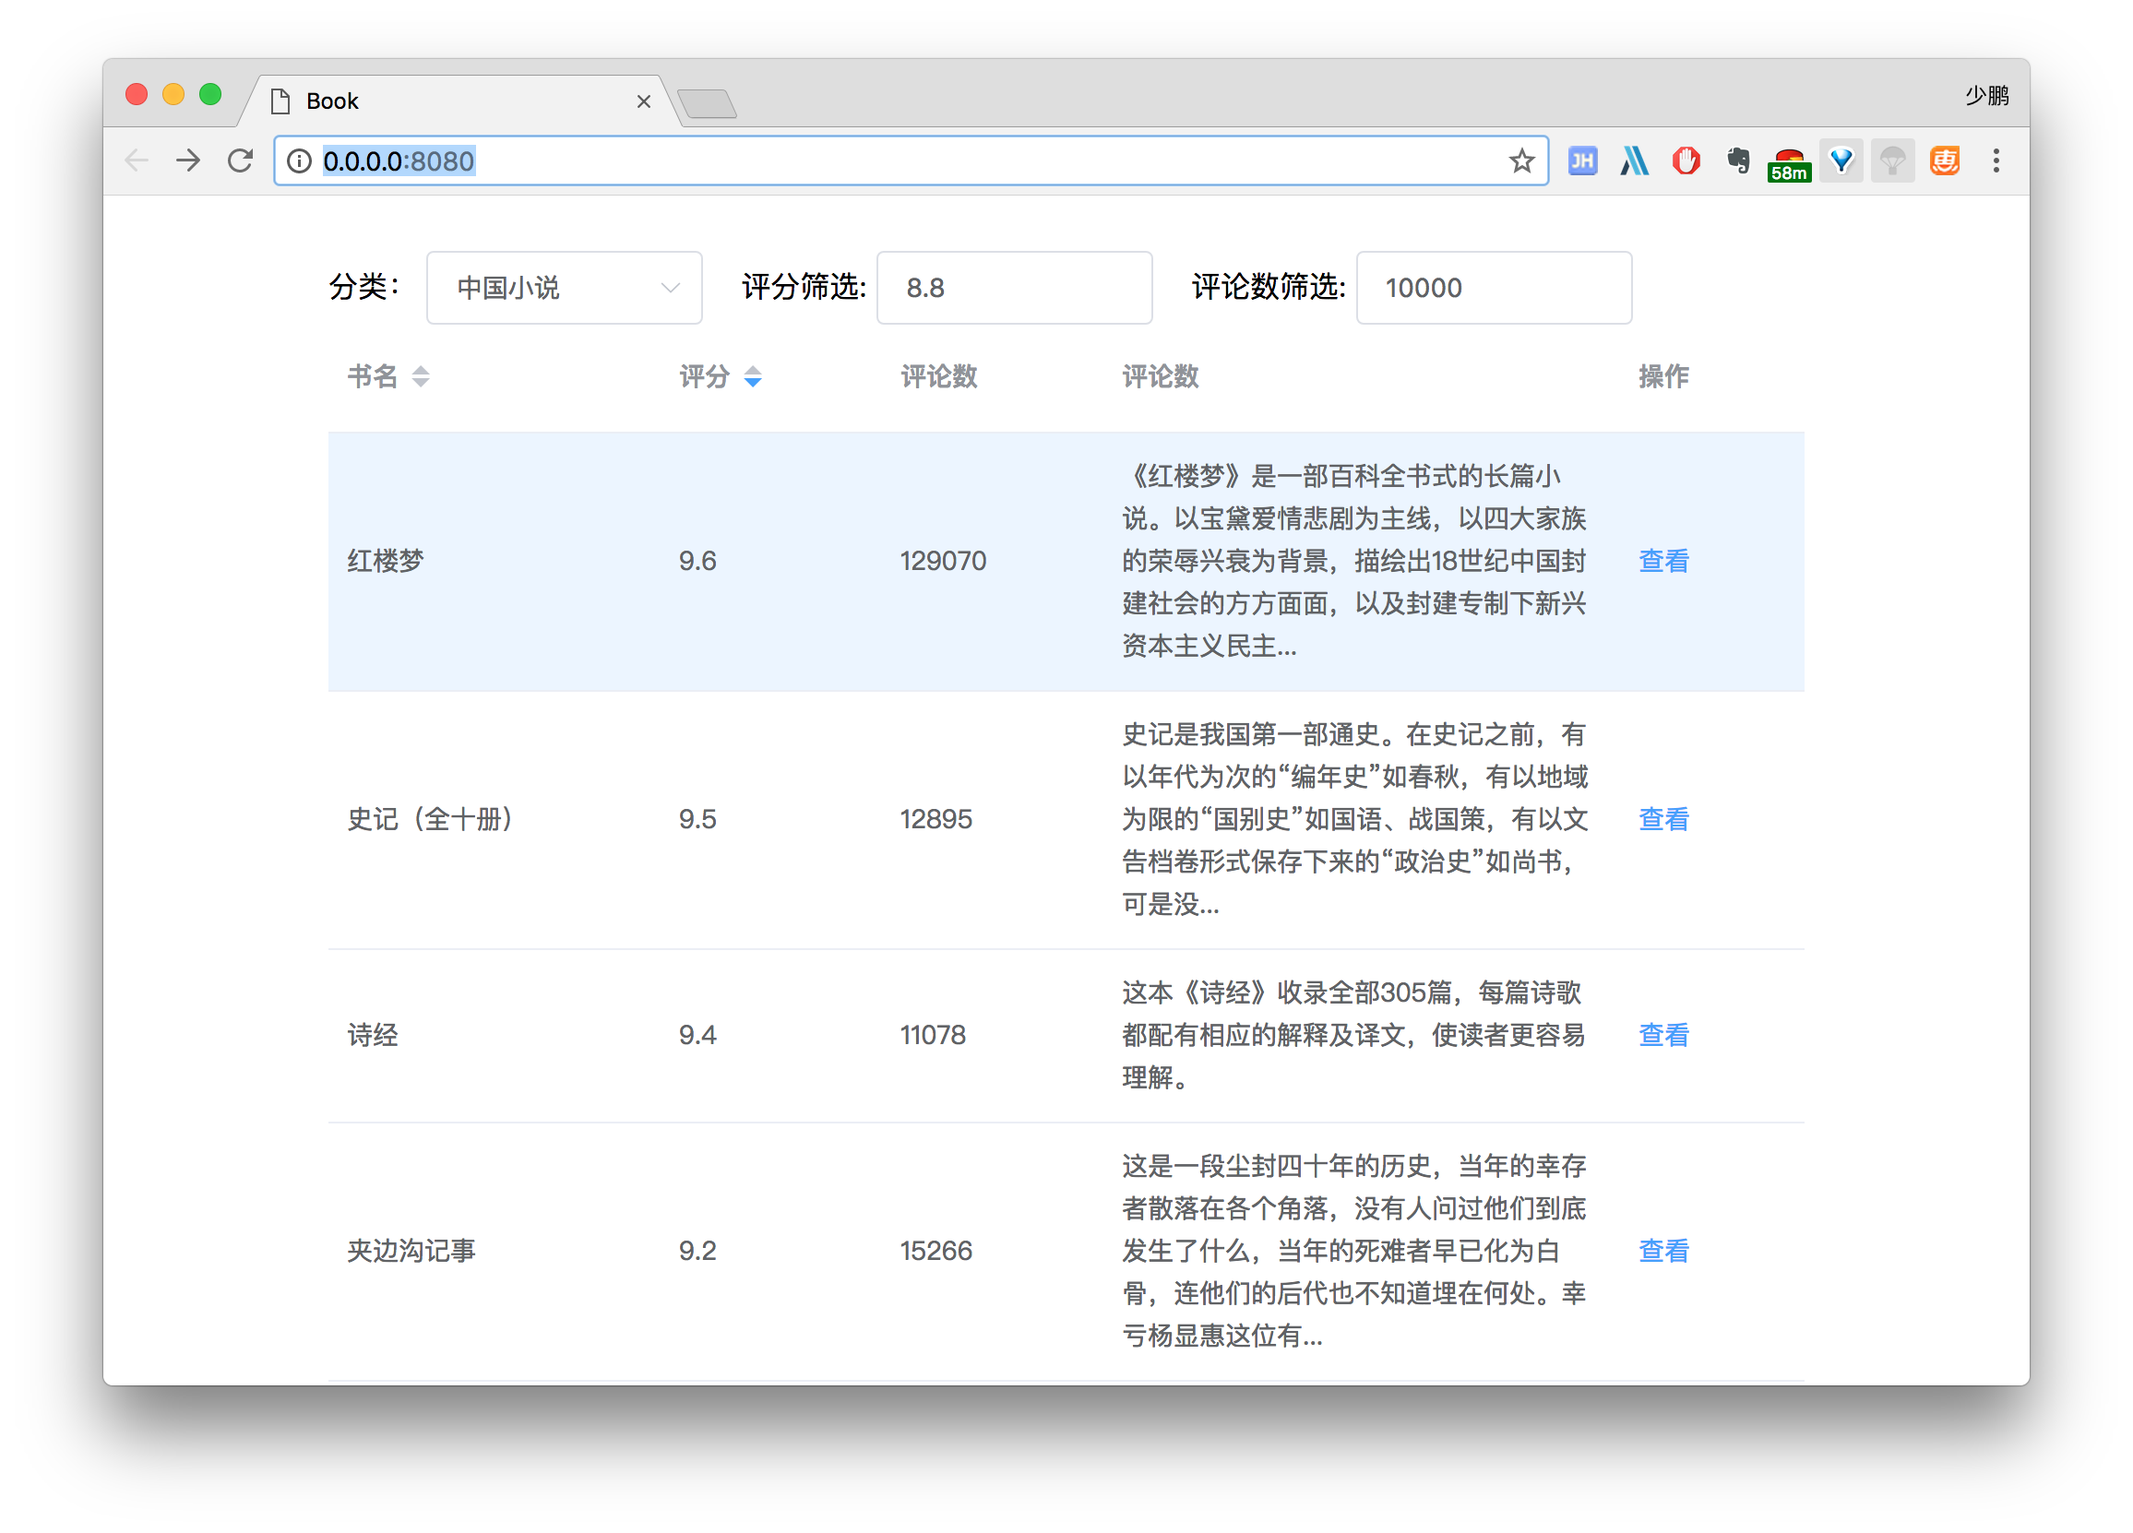
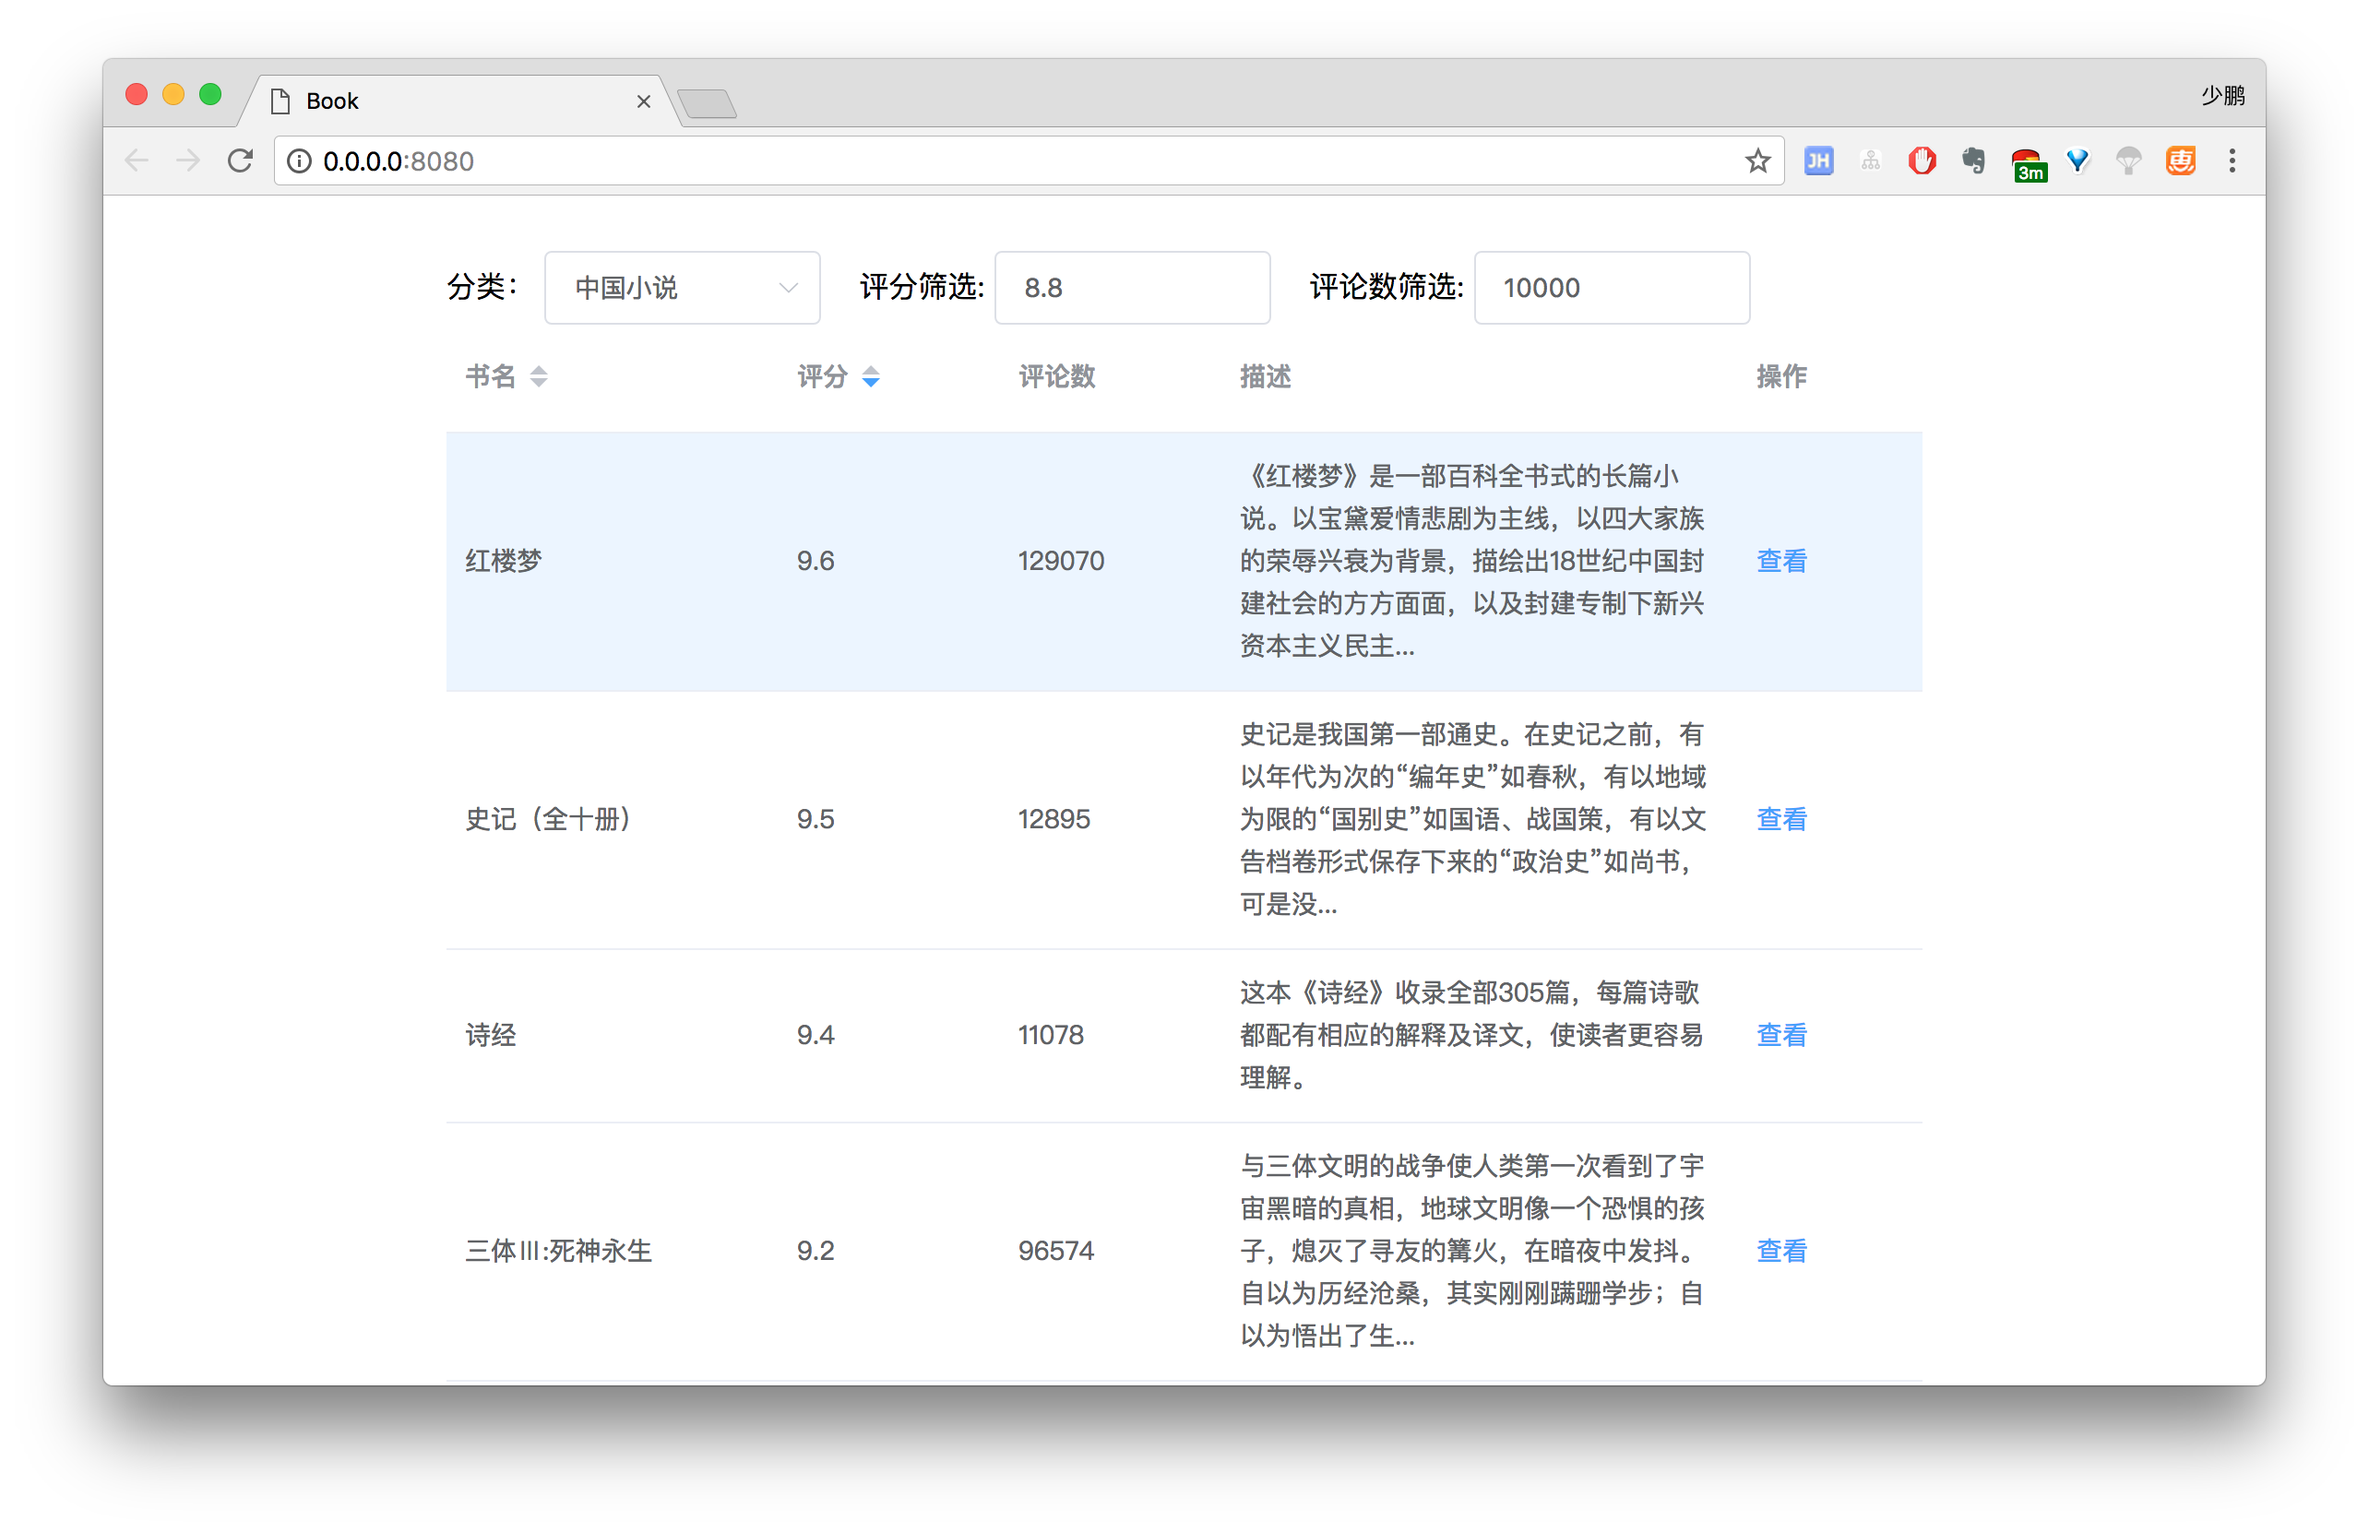
update

diff --git a/templates/index.html b/templates/index.html
@@ -47,7 +47,7 @@ $def with (res)
             <el-table-column prop="name" label="书名" sortable width="180"></el-table-column>
             <el-table-column prop="score" label="评分" sortable width="120"></el-table-column>
             <el-table-column prop="comment_num" label="评论数" width="120"></el-table-column>
-            <el-table-column prop="description" label="评论数" width="280"></el-table-column>
+            <el-table-column prop="description" label="描述" width="280"></el-table-column>
             <el-table-column fixed="right" label="操作">
                 <template slot-scope="scope">
                     <a :href="scope.row.url" class="">查看</a>
@@ -67,7 +67,7 @@ $def with (res)
             return {
                 score: 8.8,
                 comment: 10000,
-                selectIndex: 0,
+                selectIndex: 1,
                 tags: data.tags,
                 tables: data.tables,
             }
@@ -84,7 +84,7 @@ $def with (res)
 
                 res.sort(function(a, b) {
                     if (a.score < b.score) return 1;
-                    else if (a.score == b.score && a.comment_num < b.comment_num) return 1;
+                    else if (a.score == b.score && a.comment_num > b.comment_num) return 1;
                     return -1;
                 });
 

diff --git a/server.py b/server.py
@@ -1,5 +1,6 @@
 #!/usr/bin/env python3
 # -*- coding: utf-8 -*-
+__author__ = "husterxsp"
 
 import web
 import sys

diff --git a/README.md b/README.md
@@ -4,6 +4,11 @@
 
 ### run
 
+安装依赖
+```
+pip install -r requirements.txt
+```
+
 爬取数据
 ```
 python douban.py
